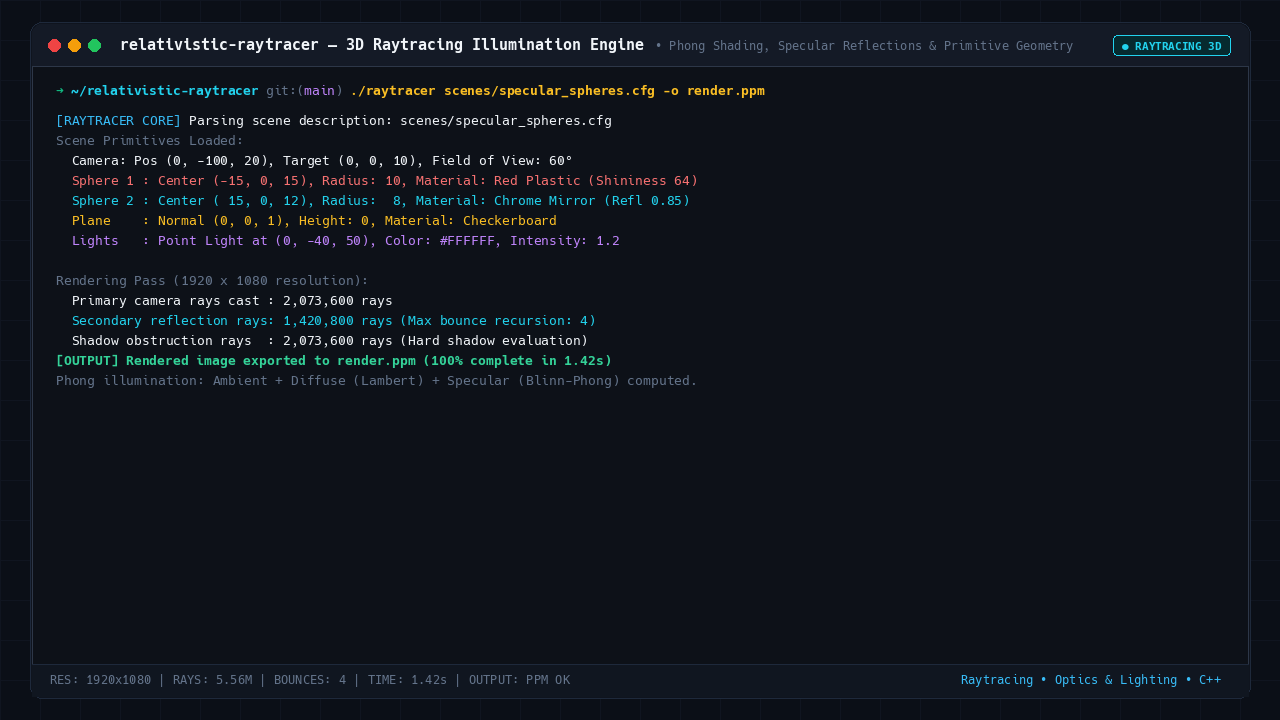
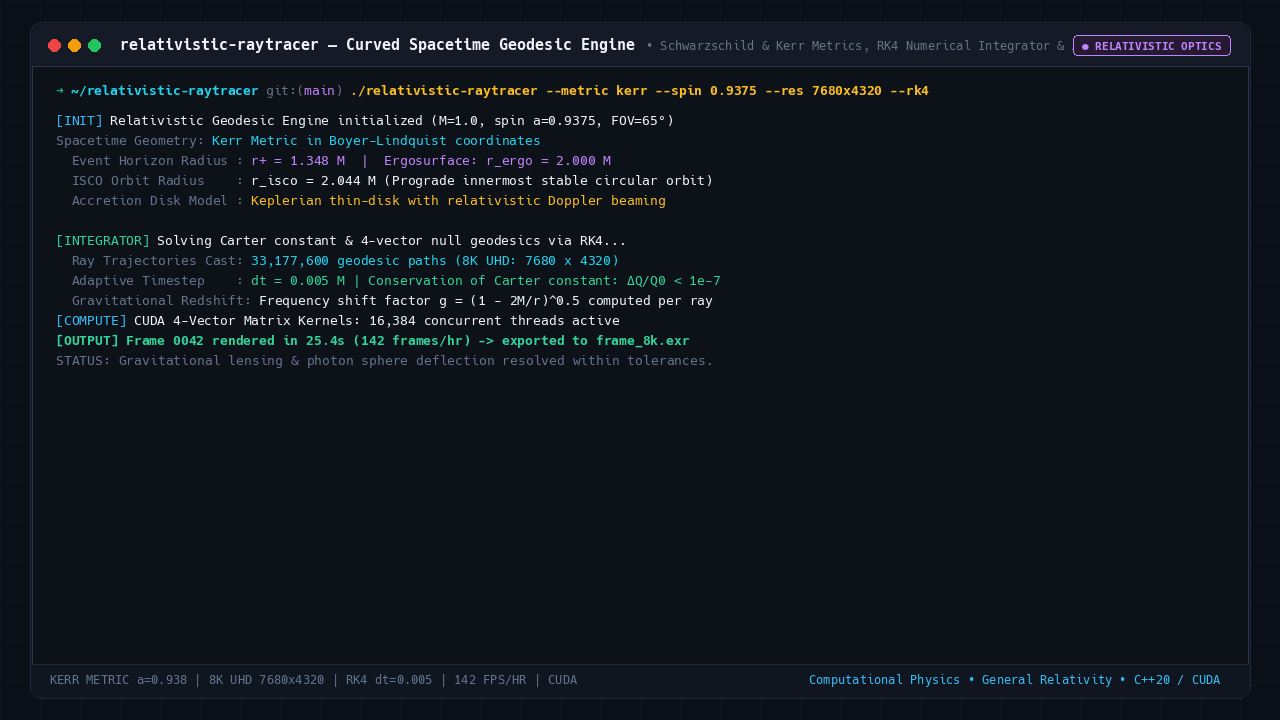
fix(raytracer): distinguish 3D Raytracer from Relativistic Raytracer, add dedicated showcase art, and update catalog links

diff --git a/assets/data/projects.js b/assets/data/projects.js
@@ -1,4 +1,3 @@
-// AUTO-GENERATED UNIFIED PORTFOLIO PROJECT DATABASE
 window.PORTFOLIO_PROJECTS_DATA = [
   {
     "id": "lbr-telemetry",
@@ -52,6 +51,25 @@ window.PORTFOLIO_PROJECTS_DATA = [
     "summary_fr": "Simulateur de propagation de feux de forêt couplant modèle de surface Rothermel, CFD du vent local et analyse de risque Monte Carlo.",
     "github": "https://github.com/Luis1454/pyrocast",
     "screenshot": "assets/project-art/pyrocast.png",
+    "featured": true
+  },
+  {
+    "id": "relativistic-raytracer",
+    "title": "Relativistic Raytracer",
+    "module": "Curved Spacetime Geodesic Engine",
+    "category": "Aerospace & HPC",
+    "domain": "aerospace-hpc",
+    "languages": [
+      "C++20",
+      "CUDA",
+      "General Relativity",
+      "RK4",
+      "Kerr Metric"
+    ],
+    "summary": "Curved-spacetime optical raytracer numerically integrating null geodesic differential equations under General Relativity around spinning Kerr black holes using CUDA four-vector matrices.",
+    "summary_fr": "Raytracer optique en espace-temps courbe intégrant numériquement les équations différentielles de géodésiques nulles selon la Relativité Générale autour de trous noirs de Kerr (RK4).",
+    "demo": "https://youtu.be/TMcS_57sPfY",
+    "screenshot": "assets/project-art/relativistic-raytracer.png",
     "featured": true
   },
   {
@@ -638,22 +656,22 @@ window.PORTFOLIO_PROJECTS_DATA = [
     "featured": false
   },
   {
-    "id": "relativistic-raytracer",
-    "title": "Relativistic Raytracer",
-    "module": "Curved Spacetime Geodesic Engine",
+    "id": "raytracer",
+    "title": "Raytracer 3D",
+    "module": "Multithreaded 3D Raytracing Engine",
     "category": "Aerospace & HPC",
     "domain": "simulations-hpc",
     "languages": [
       "C++20",
-      "CUDA",
-      "General Relativity",
-      "RK4",
-      "Kerr Metric"
+      "Multithreading",
+      "Phong Shading",
+      "SFML",
+      "Raytracing"
     ],
-    "summary": "Optical raytracing simulation modeling photon trajectories along null geodesics in curved spacetime metrics (Schwarzschild and Kerr black holes) using numerical differential integrators.",
-    "summary_fr": "Raytracer optique relativiste résolvant les géodésiques nulles autour de trous noirs de Kerr via Runge-Kutta 4.",
-    "github": "https://github.com/Luis1454/epitech-portfolio/tree/main/projects/simulations-hpc/relativistic-raytracer",
-    "screenshot": "assets/project-art/relativistic-raytracer.png",
+    "summary": "High-performance 3D optical raytracer in C++20 featuring recursive reflection, Phong illumination, shadow projection, post-processing filters, and a multithreaded tile renderer.",
+    "summary_fr": "Moteur de raytracing 3D multithreadé en C++20 avec réflexions récursives, modèle d'illumination de Phong, ombres portées, filtres post-traitement et viewport SFML.",
+    "github": "https://github.com/Luis1454/epitech-portfolio/tree/main/projects/simulations-hpc/raytracer",
+    "screenshot": "assets/project-art/raytracer.png",
     "featured": false
   },
   {

diff --git a/main.js b/main.js
@@ -1704,7 +1704,23 @@ function initProjectModal() {
     }
 
     if (githubLink) {
-      githubLink.href = project.github || "#";
+      if (project.github) {
+        githubLink.href = project.github;
+        githubLink.style.display = "";
+        const spanText = githubLink.querySelector("span");
+        if (spanText) {
+          spanText.textContent = (lang === "fr" ? "Consulter le code source sur GitHub ↗" : "View source on GitHub ↗");
+        }
+      } else if (project.demo) {
+        githubLink.href = project.demo;
+        githubLink.style.display = "";
+        const spanText = githubLink.querySelector("span");
+        if (spanText) {
+          spanText.textContent = (lang === "fr" ? "Voir la démo vidéo (8K) ↗" : "Watch video demo (8K) ↗");
+        }
+      } else {
+        githubLink.style.display = "none";
+      }
     }
 
     modal.classList.add("is-open");

diff --git a/index.html b/index.html
@@ -366,7 +366,6 @@
                   <div class="product-cta-row">
                     <button class="btn btn-outline btn-sm product-preview-btn" data-project-id="relativistic-raytracer" type="button">Showcase ⚡</button>
                     <a class="btn btn-outline btn-sm" href="https://youtu.be/TMcS_57sPfY" target="_blank" rel="noreferrer">Render Demo (8K) ↗</a>
-                    <a class="btn btn-outline btn-sm" href="https://github.com/Luis1454/epitech-portfolio/tree/main/projects/simulations-hpc/relativistic-raytracer" target="_blank" rel="noreferrer">Source on GitHub ↗</a>
                   </div>
                 </div>
               </div>

diff --git a/generate_all_53_showcases.py b/generate_all_53_showcases.py
@@ -986,31 +986,57 @@ PROJECTS_DATA = {
         "status_right": "3D Isometric Projection • Mesh Editing • C"
     },
 
-    "relativistic-raytracer": {
-        "title": "relativistic-raytracer — 3D Raytracing Illumination Engine",
-        "subtitle": "Phong Shading, Specular Reflections & Primitive Geometry",
+    "raytracer": {
+        "title": "raytracer — Multithreaded 3D Raytracing Engine",
+        "subtitle": "Phong Illumination, Shadows, Reflection & Geometric Primitives",
         "badge": "● RAYTRACING 3D",
         "badge_color": C_CYAN,
-        "dir": "~/relativistic-raytracer",
-        "cmd": "./raytracer scenes/specular_spheres.cfg -o render.ppm",
+        "dir": "~/raytracer",
+        "cmd": "./raytracer -sfml scenes/specular_spheres.cfg",
         "lines": [
-            [("[RAYTRACER CORE] ", C_BLUE), ("Parsing scene description: scenes/specular_spheres.cfg", C_TEXT_WHITE)],
-            [("Scene Primitives Loaded:", C_TEXT_DIM)],
+            [("[RAYTRACER ENGINE] ", C_BLUE), ("Initializing C++20 multithreaded tile renderer (32 worker threads)", C_TEXT_WHITE)],
+            [("Scene Primitives Loaded: ", C_TEXT_DIM), ("scenes/specular_spheres.cfg (libconfig format)", C_CYAN)],
             [("  Camera: Pos (0, -100, 20), Target (0, 0, 10), Field of View: 60°", C_TEXT_WHITE)],
             [("  Sphere 1 : Center (-15, 0, 15), Radius: 10, Material: Red Plastic (Shininess 64)", C_RED)],
             [("  Sphere 2 : Center ( 15, 0, 12), Radius:  8, Material: Chrome Mirror (Refl 0.85)", C_CYAN)],
             [("  Plane    : Normal (0, 0, 1), Height: 0, Material: Checkerboard", C_YELLOW)],
             [("  Lights   : Point Light at (0, -40, 50), Color: #FFFFFF, Intensity: 1.2", C_PURPLE)],
             [("", C_TEXT_WHITE)],
-            [("Rendering Pass (1920 x 1080 resolution):", C_TEXT_DIM)],
+            [("Rendering Pass (1920 x 1080 resolution, 100x100 tiles):", C_TEXT_DIM)],
             [("  Primary camera rays cast : 2,073,600 rays", C_TEXT_WHITE)],
-            [("  Secondary reflection rays: 1,420,800 rays (Max bounce recursion: 4)", C_CYAN)],
+            [("  Secondary reflection rays: 1,420,800 rays (Max bounce recursion: 5)", C_CYAN)],
             [("  Shadow obstruction rays  : 2,073,600 rays (Hard shadow evaluation)", C_TEXT_WHITE)],
             [("[OUTPUT] ", C_GREEN, True), ("Rendered image exported to render.ppm (100% complete in 1.42s)", C_GREEN, True)],
-            [("Phong illumination: Ambient + Diffuse (Lambert) + Specular (Blinn-Phong) computed.", C_TEXT_DIM)]
+            [("Phong illumination: Ambient + Diffuse (Lambert) + Specular (Blinn-Phong) | SFML loop active.", C_TEXT_DIM)]
         ],
-        "status_left": "RES: 1920x1080 | RAYS: 5.56M | BOUNCES: 4 | TIME: 1.42s | OUTPUT: PPM OK",
-        "status_right": "Raytracing • Optics & Lighting • C++"
+        "status_left": "RES: 1920x1080 | RAYS: 5.56M | BOUNCES: 5 | THREADS: 32 | TIME: 1.42s | SFML OK",
+        "status_right": "Raytracing • Optics & Lighting • C++20"
+    },
+
+    "relativistic-raytracer": {
+        "title": "relativistic-raytracer — Curved Spacetime Geodesic Engine",
+        "subtitle": "Schwarzschild & Kerr Metrics, RK4 Numerical Integrator & Accretion Lensing",
+        "badge": "● RELATIVISTIC OPTICS",
+        "badge_color": C_PURPLE,
+        "dir": "~/relativistic-raytracer",
+        "cmd": "./relativistic-raytracer --metric kerr --spin 0.9375 --res 7680x4320 --rk4",
+        "lines": [
+            [("[INIT] ", C_BLUE), ("Relativistic Geodesic Engine initialized (M=1.0, spin a=0.9375, FOV=65°)", C_TEXT_WHITE)],
+            [("Spacetime Geometry: ", C_TEXT_DIM), ("Kerr Metric in Boyer-Lindquist coordinates", C_CYAN)],
+            [("  Event Horizon Radius : ", C_TEXT_DIM), ("r+ = 1.348 M  |  Ergosurface: r_ergo = 2.000 M", C_PURPLE)],
+            [("  ISCO Orbit Radius    : ", C_TEXT_DIM), ("r_isco = 2.044 M (Prograde innermost stable circular orbit)", C_TEXT_WHITE)],
+            [("  Accretion Disk Model : ", C_TEXT_DIM), ("Keplerian thin-disk with relativistic Doppler beaming", C_YELLOW)],
+            [("", C_TEXT_WHITE)],
+            [("[INTEGRATOR] ", C_GREEN), ("Solving Carter constant & 4-vector null geodesics via RK4...", C_TEXT_WHITE)],
+            [("  Ray Trajectories Cast: ", C_TEXT_DIM), ("33,177,600 geodesic paths (8K UHD: 7680 x 4320)", C_CYAN)],
+            [("  Adaptive Timestep    : ", C_TEXT_DIM), ("dt = 0.005 M | Conservation of Carter constant: ΔQ/Q0 < 1e-7", C_GREEN)],
+            [("  Gravitational Redshift: ", C_TEXT_DIM), ("Frequency shift factor g = (1 - 2M/r)^0.5 computed per ray", C_TEXT_WHITE)],
+            [("[COMPUTE] ", C_BLUE), ("CUDA 4-Vector Matrix Kernels: 16,384 concurrent threads active", C_TEXT_WHITE)],
+            [("[OUTPUT] ", C_GREEN, True), ("Frame 0042 rendered in 25.4s (142 frames/hr) -> exported to frame_8k.exr", C_GREEN, True)],
+            [("STATUS: Gravitational lensing & photon sphere deflection resolved within tolerances.", C_TEXT_DIM)]
+        ],
+        "status_left": "KERR METRIC a=0.938 | 8K UHD 7680x4320 | RK4 dt=0.005 | 142 FPS/HR | CUDA",
+        "status_right": "Computational Physics • General Relativity • C++20 / CUDA"
     },
 
     "rtype": {
